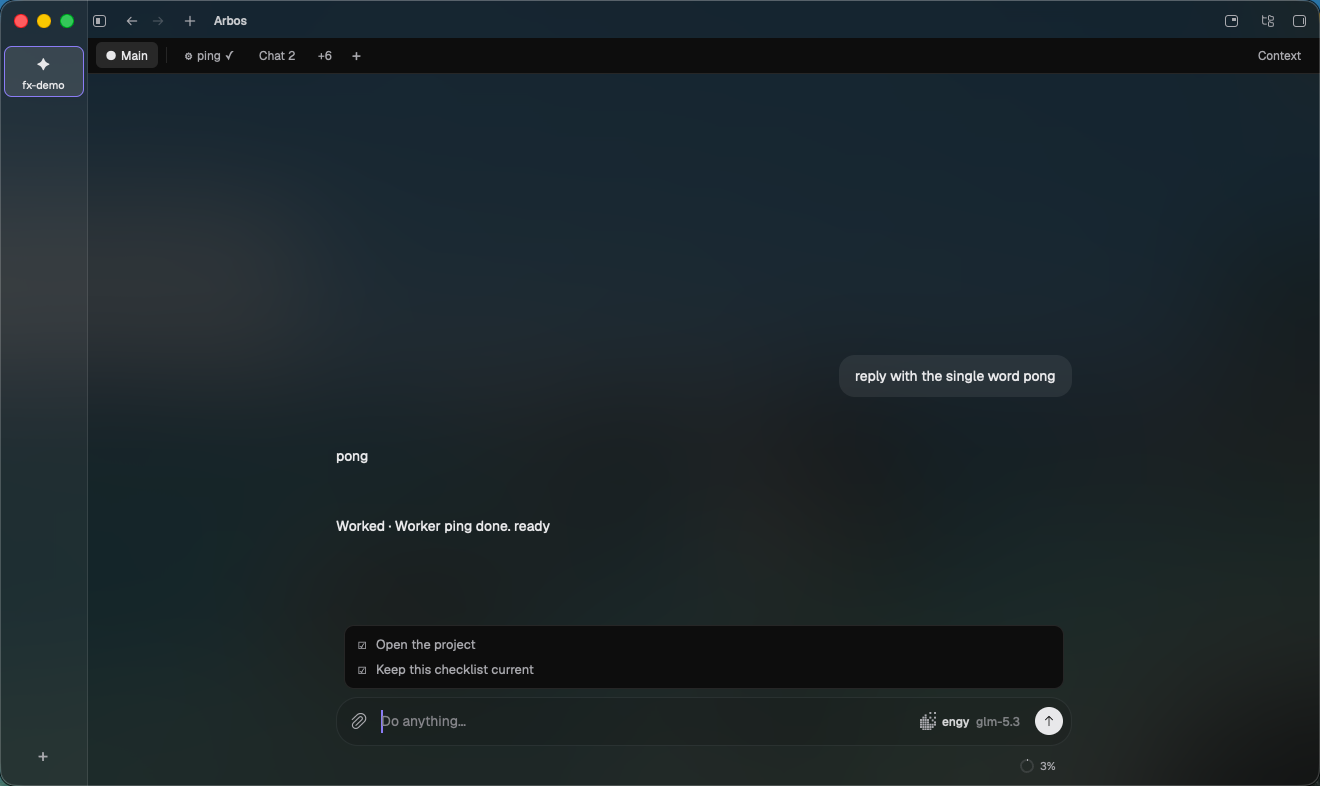
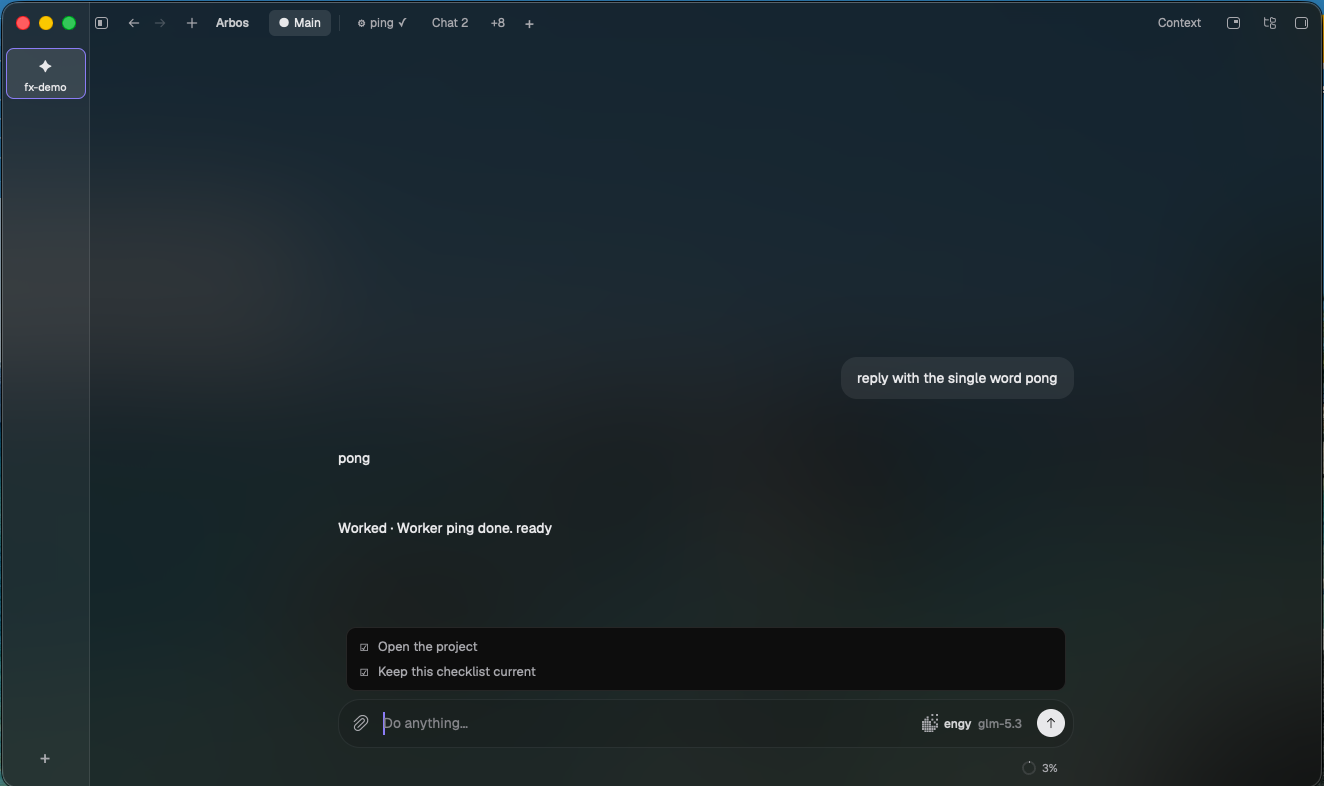
Put the chat tabs on the Arbos row.
A new chat keeps the message bar in the center until the first message. The README image shows that one bar.

diff --git a/app/crates/ui/src/shell/project_chrome.rs b/app/crates/ui/src/shell/project_chrome.rs
@@ -18,6 +18,7 @@ use crate::theme::Theme;
 use super::Shell;
 
 pub(super) const RAIL_WIDTH: f32 = 88.0;
+#[allow(dead_code)]
 pub(super) const TAB_HEIGHT: f32 = 36.0;
 const EXTRA_VISIBLE: usize = 2;
 
@@ -143,19 +144,15 @@ impl Shell {
         let shown_ix = visible_extra_indexes(&extras, selected.as_deref());
         let hidden = extras.len().saturating_sub(shown_ix.len());
         let mut strip = div()
-            .absolute()
-            .top(px(Theme::TITLEBAR_HEIGHT))
-            .left_0()
-            .right_0()
-            .h(px(TAB_HEIGHT))
+            .min_w_0()
+            .flex_1()
+            .h_full()
             .flex()
             .flex_row()
             .items_center()
             .gap(px(4.0))
-            .px(px(8.0))
-            .bg(theme.surface)
-            .border_b_1()
-            .border_color(theme.border)
+            .pl(px(12.0))
+            .overflow_hidden()
             .on_scroll_wheel(|_, _, cx| cx.stop_propagation());
         if let Some(tab) = main {
             strip = strip.child(self.chat_tab(&tab, selected.as_deref(), surface, &theme, cx));
@@ -328,7 +325,7 @@ impl Shell {
         let Some(project) = self.selected_project(cx) else {
             return div()
                 .size_full()
-                .pt(px(Theme::TITLEBAR_HEIGHT + TAB_HEIGHT))
+                .pt(px(Theme::TITLEBAR_HEIGHT))
                 .child("Add a project to open Context")
                 .into_any_element();
         };
@@ -341,7 +338,7 @@ impl Shell {
             .flex_none()
             .border_r_1()
             .border_color(theme.border)
-            .pt(px(Theme::TITLEBAR_HEIGHT + TAB_HEIGHT + 8.0))
+            .pt(px(Theme::TITLEBAR_HEIGHT + 8.0))
             .px(px(8.0))
             .flex()
             .flex_col()
@@ -384,7 +381,7 @@ impl Shell {
                     .h_full()
                     .flex()
                     .flex_col()
-                    .pt(px(Theme::TITLEBAR_HEIGHT + TAB_HEIGHT + 8.0))
+                    .pt(px(Theme::TITLEBAR_HEIGHT + 8.0))
                     .px(px(12.0))
                     .gap(px(8.0))
                     .child(

diff --git a/app/crates/ui/src/shell.rs b/app/crates/ui/src/shell.rs
@@ -11042,10 +11042,19 @@ impl Shell {
             self.reduced_motion,
             frame_time,
         );
+        let chat_has_messages = {
+            let state = self.state.read(cx);
+            !state.transcript.is_empty() || !state.pending_echoes().is_empty()
+        };
+        // A new chat has no messages yet, so the bar stays in the center.
+        // Until history arrives, keep the bar down so an existing chat does
+        // not jump. After the first message it sits under the transcript.
+        let composer_docked = has_selection
+            && (chat_has_messages || !self.state.read(cx).transcript_replayed);
         let dock_frame =
             self.composer_dock
                 .borrow_mut()
-                .tick(has_selection, self.reduced_motion, frame_time);
+                .tick(composer_docked, self.reduced_motion, frame_time);
         if dock_frame.active {
             self.motion_active.set(true);
         }
@@ -11302,7 +11311,7 @@ impl Shell {
                             // Fully faded BY the titlebar's bottom edge (the
                             // title text is opaque — overlap read as collision),
                             // ramping in the band just below it.
-                            .inset_top(Theme::TITLEBAR_HEIGHT + project_chrome::TAB_HEIGHT)
+                            .inset_top(Theme::TITLEBAR_HEIGHT)
                             .band_top(Theme::TRANSCRIPT_FADE_BAND)
                             .band_bottom(bottom_band),
                             terminal_geometry.clone(),
@@ -11406,7 +11415,6 @@ impl Shell {
                     })
                     .child(self.render_terminal_container(terminal_geometry, window, cx))
             })
-            .child(self.render_project_tabs(cx))
             .children(self.render_icon_menu(cx))
             .child(Self::attachment_drop_overlay(theme))
             .child(Self::mention_drop_overlay(theme))

diff --git a/app/crates/ui/src/shell/tabs.rs b/app/crates/ui/src/shell/tabs.rs
@@ -603,7 +603,7 @@ impl Shell {
             .when(!takeover, |el| {
                 el.child(
                     div()
-                        .min_w_0()
+                        .flex_none()
                         .overflow_hidden()
                         .flex()
                         .flex_row()
@@ -635,7 +635,7 @@ impl Shell {
                         ),
                 )
             })
-            .child(div().flex_1())
+            .child(self.render_project_tabs(cx))
             .children(session_info_toggle)
             .children(trailing);
 
